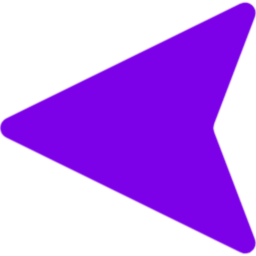
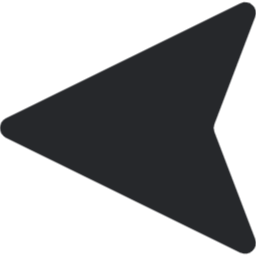
Cleaned up the shop

diff --git a/Fnaf Pizzeria/states.py b/Fnaf Pizzeria/states.py
@@ -101,10 +101,10 @@ class Shop(BaseState):
         self.font = pg.font.SysFont(None, 40)
 
         self.lArrowButton = Button(
-            x=200, y=600, height=100, width=100, colour=None, hoverColour=None, image=images["l_arrow"]
+            x=500, y=525, height=100, width=100, colour=None, hoverColour=None, image=images["l_arrow"]
         )
         self.rArrowButton = Button(
-            x=800, y=600, height=100, width=100, colour=None, hoverColour=None, image=images["r_arrow"]
+            x=1080, y=525, height=100, width=100, colour=None, hoverColour=None, image=images["r_arrow"]
         )
 
     def handle_events(self, events):
@@ -124,7 +124,7 @@ class Shop(BaseState):
                     self.done = True
 
     def draw(self, screen):
-        screen.fill((100, 200, 200))
+        screen.fill((0, 100, 150))
         text = self.font.render("Shop", True, (255, 255, 255))
         screen.blit(text, (100, 250))
 
